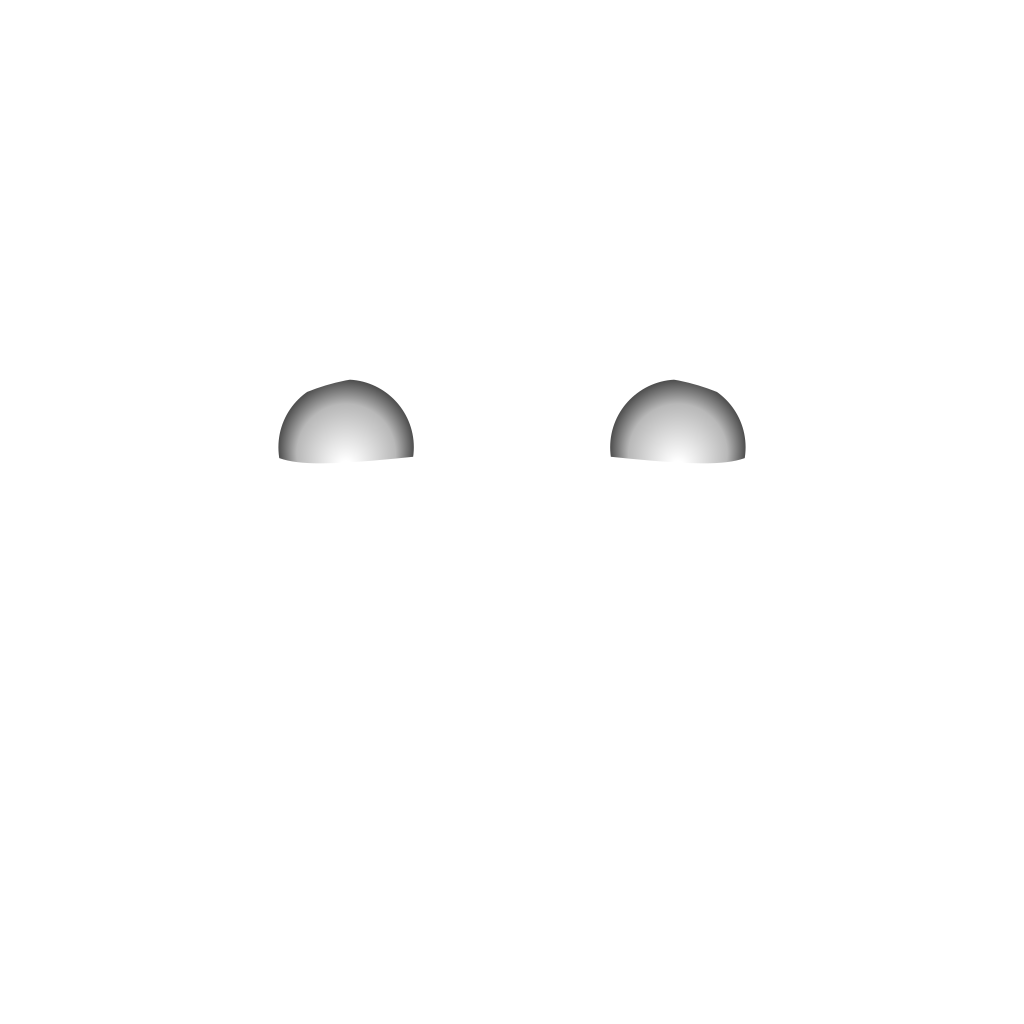
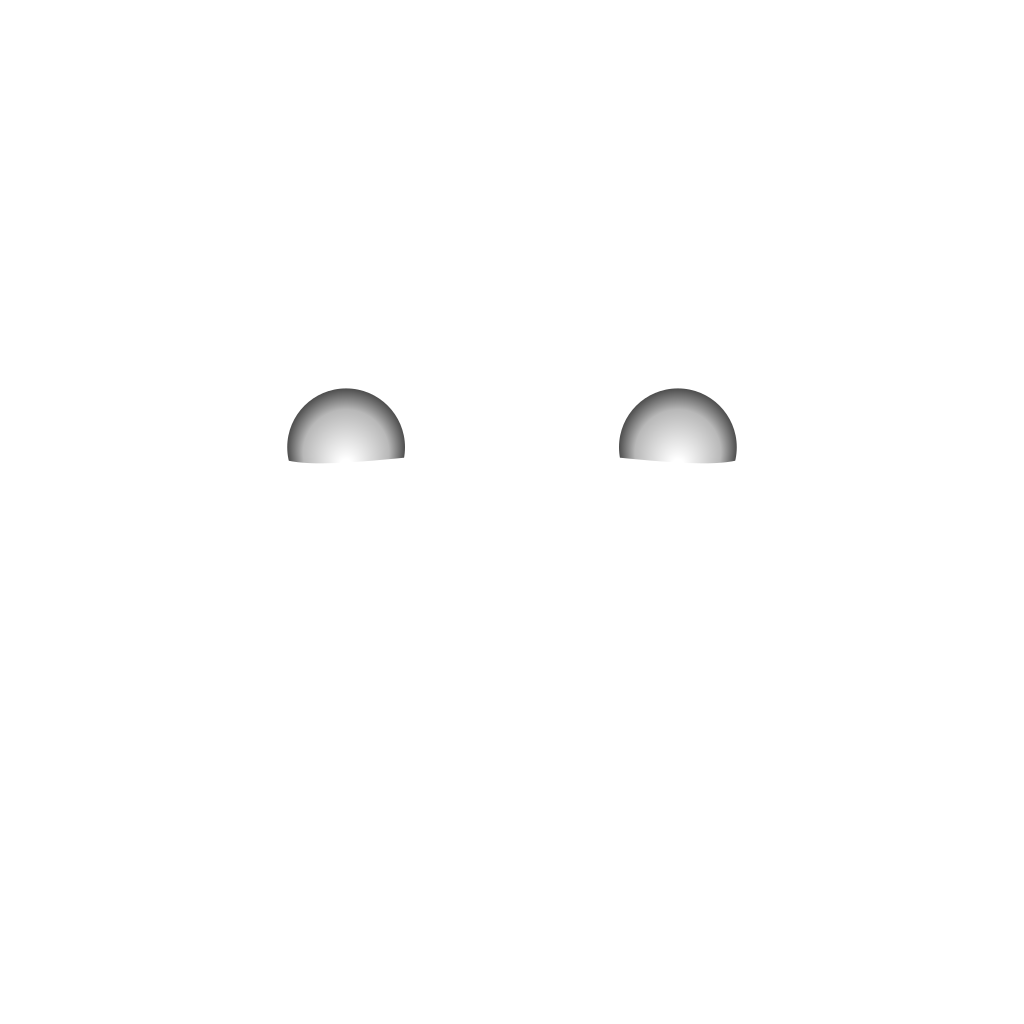
faces/v5: eye c03 with the smaller iris
Claude-Session: https://claude.ai/code/session_01MsktHWC6YiJysBr5Si8iVK

Changed region(s): [[0.5938, 0.375, 0.75, 0.4688], [0.25, 0.375, 0.4062, 0.4688]]

diff --git a/faces/make_face_parts_v5.py b/faces/make_face_parts_v5.py
@@ -49,6 +49,10 @@ def eye_list():
     for i in range(8):  # Common: calm, open shapes
         add(f"c{i + 1:02d}", "Common", F(open=rng.uniform(54, 68), tilt=rng.uniform(0, 8), lidW=rng.uniform(12, 15), flick=rng.uniform(16, 30),
                                        iris=rng.uniform(0.62, 0.74), irisY=rng.uniform(0.14, 0.24), crease=1, hatch=0, hatchLow=0, seed=i + 1))
+    # c03 with the smaller iris (Philip picked it from the "iris klein" preview, 1 Nov)
+    for it in out:
+        if it["id"] == "c03":
+            it["f"]["iris"] /= 1.15
     add("c_round", "Common", F(open=82, tilt=-2, lidW=11, flick=10, iris=0.48, irisY=0.0, crease=0, hatch=0, lowerGap=0.1, seed=31))
     add("c_sleepy", "Common", F(open=40, tilt=-4, lidW=16, flick=14, iris=0.8, irisY=0.34, crease=2, hatch=0, hatchLow=2, seed=32))
     for i in range(10):  # Uncommon: sharper, the anime look
